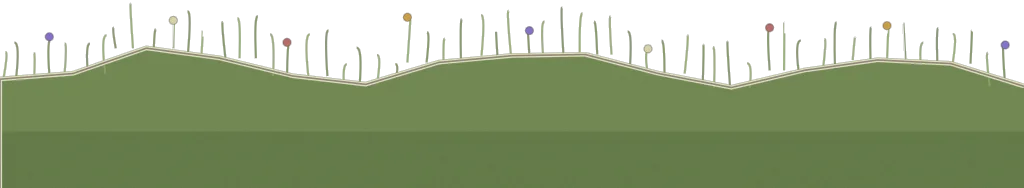
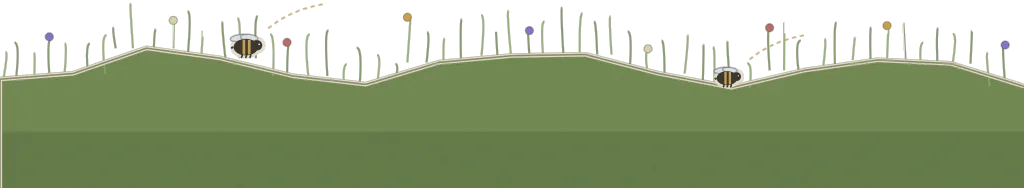
feat(labs/storybook): s3 carrier swarm art pass - sprite atlas + slivers
- ch2-swarm-atlas (1024, 8x8 grid): 16 rider sprites (5 bee poses, 3 envelope
  kinds incl. the wax-sealed accent, 2 twine parcels, chainlet, honey drop,
  2 scouts, satchel bee, tilted letter), opaque strut swatch (cell 16), 2x2
  STIR tab region (stacked banner lettering + bee-on-honey-drop pull + wax
  bow), 4-cell banner strip reserved for the page print
- ch2-crown-b/c wings-spread carrier bees (crown-c carries wax seal 3 of 3),
  ch2-cloud-l/r cut-paper clouds, ch2-chain-l/r linked-rank bee+envelope
  chains on one thread (all rim-edged, alpine-airy palette, red ONLY on
  seals + tab bow)
- ch2-fringe repaint: two couriers perched ON the crest (paper-true, no
  floating alpha islands) with gold dashed flight trails
- ch2-meadow-deck retired (bake entry + webp); manifest rebuilt
- layer: tab uv maps the 2x2 atlas region (cellsY support)

diff --git a/components/labs/storybook/book/popup-swarmarc-layer.tsx b/components/labs/storybook/book/popup-swarmarc-layer.tsx
@@ -62,14 +62,14 @@ const TAB_Y_LIFT = 0.003
 const clamp = (x: number, lo: number, hi: number): number => Math.min(hi, Math.max(lo, x))
 
 /** uv rect of one atlas cell (row 0 at the TOP of the image — canvas paint
- *  order), optionally `cells` wide, optionally u-mirrored. */
-function cellUvs(cell: number, cells: number, flip: boolean): [number, number][] {
+ *  order), optionally `cells` wide / `cellsY` tall, optionally u-mirrored. */
+function cellUvs(cell: number, cells: number, flip: boolean, cellsY = 1): [number, number][] {
   const cx = cell % ATLAS_GRID
   const cy = Math.floor(cell / ATLAS_GRID)
   const u0 = cx / ATLAS_GRID
   const u1 = (cx + cells) / ATLAS_GRID
   const v1 = 1 - cy / ATLAS_GRID
-  const v0 = 1 - (cy + 1) / ATLAS_GRID
+  const v0 = 1 - (cy + cellsY) / ATLAS_GRID
   const [a, b] = flip ? [u1, u0] : [u0, u1]
   // corner order [foot-in, foot-out, tip-out, tip-in]: u across, v foot→tip
   return [
@@ -155,8 +155,10 @@ export function SwarmArcPopupLayer({
     return makeMergedQuads(n, applyUvRect(uv, rect))
   }, [n, layer.struts, rect])
   const tabGeometry = useMemo(() => {
+    // The STIR tab reads the atlas's 2x2 region (cells 17-18 + 25-26): banner
+    // lettering over the bee-on-honey-drop pull.
     const uv = new Float32Array(4 * 2)
-    cellUvs(17, 2, false).forEach(([u, v], c) => uv.set([u, v], c * 2))
+    cellUvs(17, 2, false, 2).forEach(([u, v], c) => uv.set([u, v], c * 2))
     return makeMergedQuads(1, applyUvRect(uv, rect))
   }, [rect])
 
